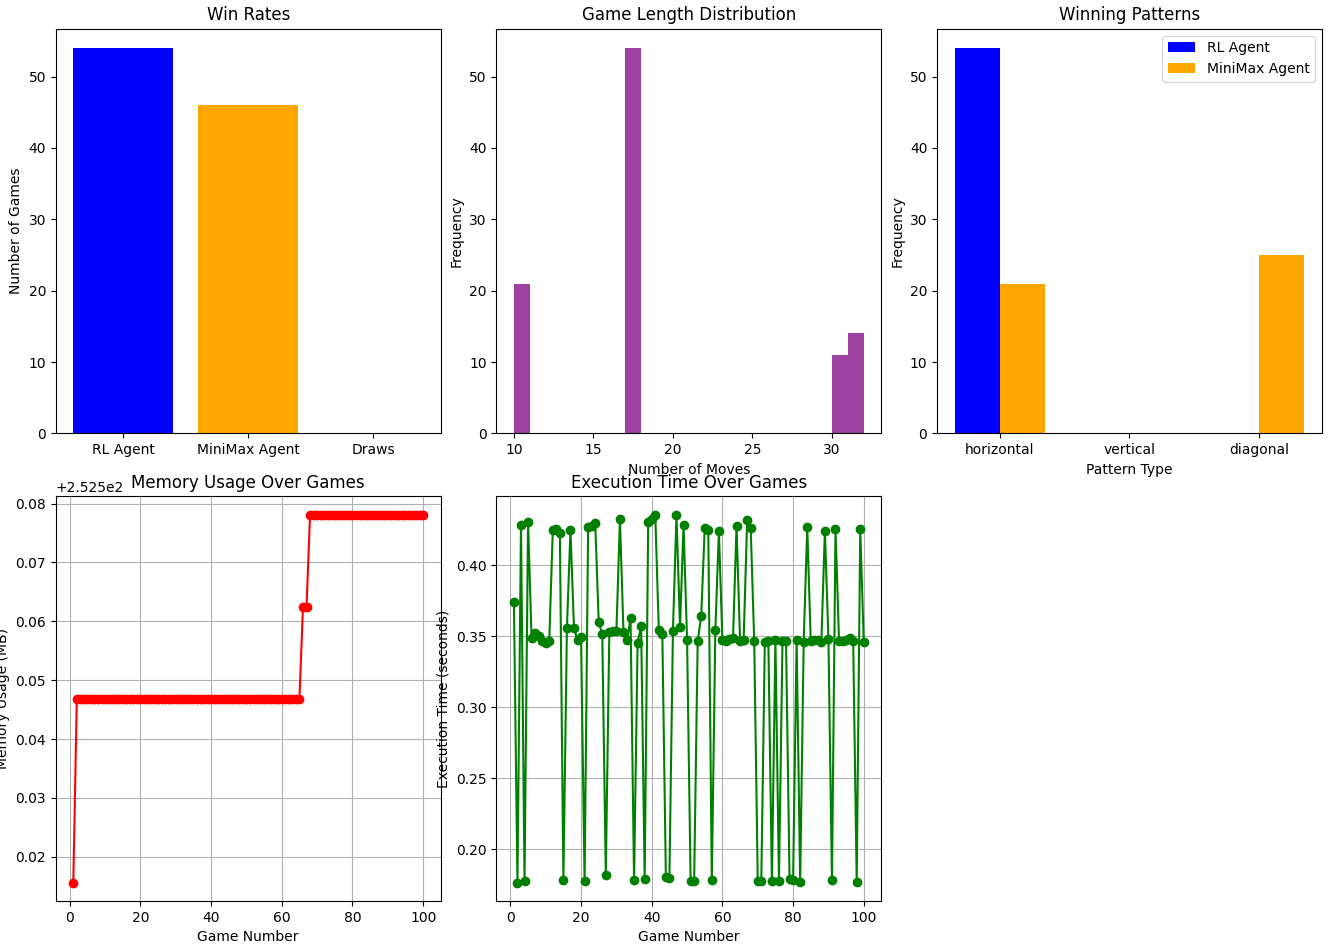
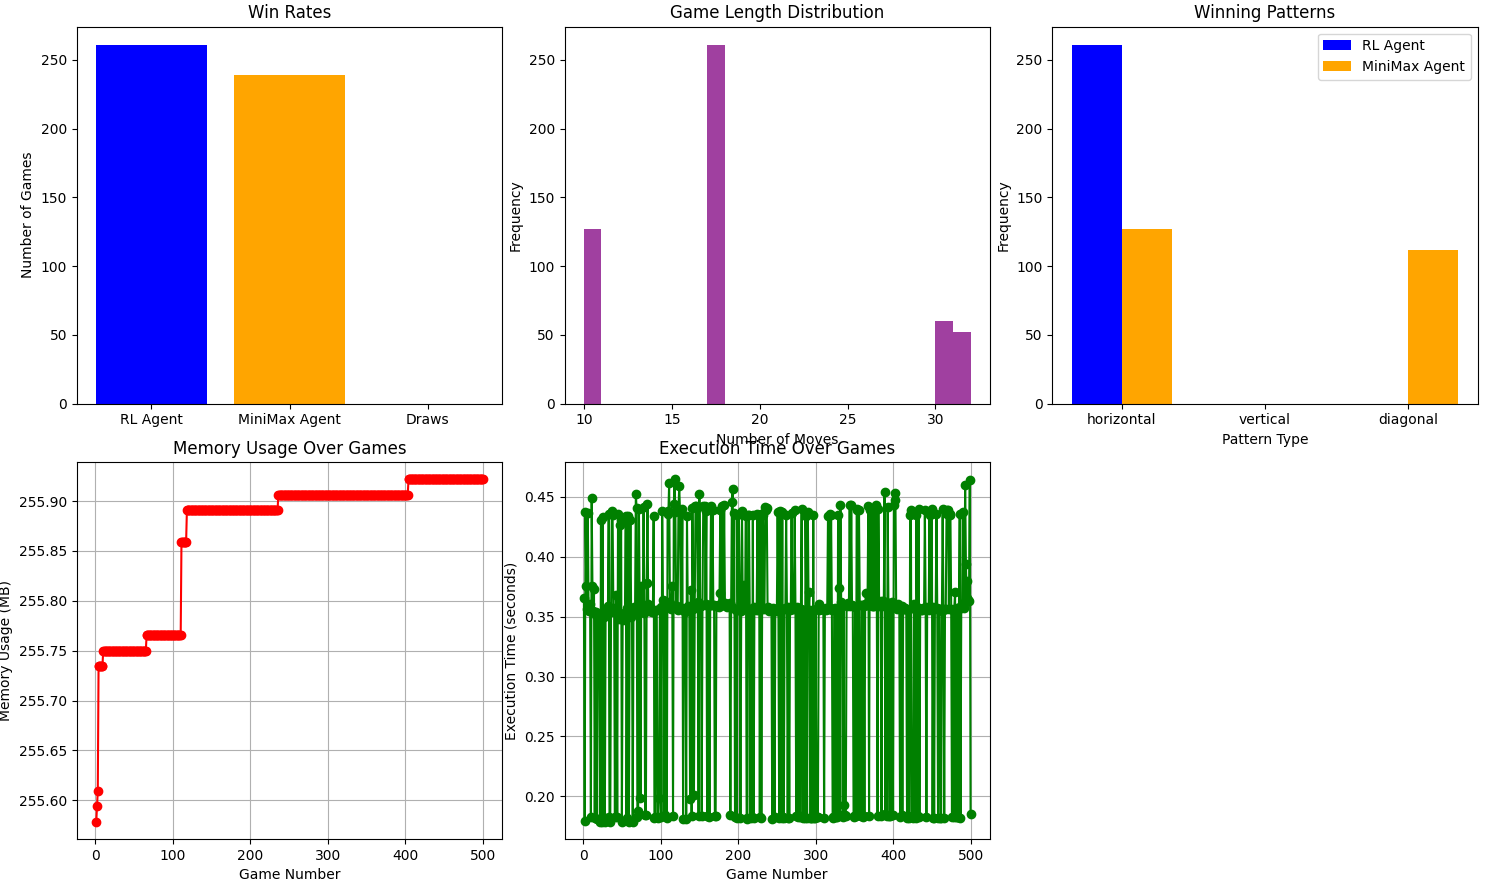
core: added graphic minimax vs rl agent

diff --git a/src/agents/rl_agent/evaluate.py b/src/agents/rl_agent/evaluate.py
@@ -155,4 +155,4 @@ def evaluate(num_games=100):
     plt.show()
 
 # Beispielaufruf
-evaluate(num_games=100)
+evaluate(num_games=500)
